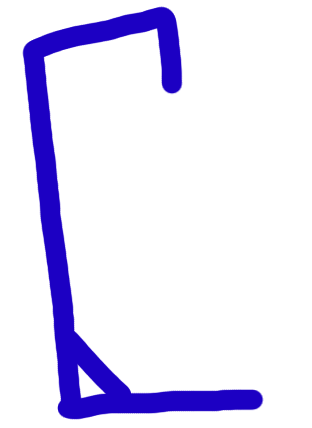
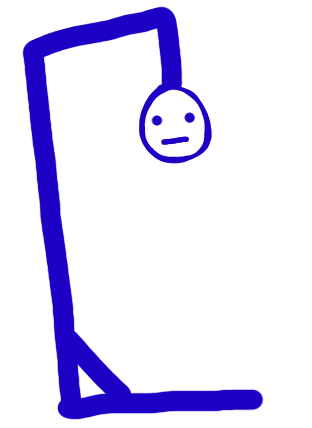
Add hangman images and make function to change through them with each mistake

Changed region(s): [[0.4327, 0.1822, 0.6923, 0.3949]]

diff --git a/assets/js/script.js b/assets/js/script.js
@@ -114,16 +114,19 @@ let musicList  = [
 /*--- functions to pick random words by category ---*/
 
 function randomActor(){
+    reset();
     answer = actorsList[Math.floor(Math.random() * 20)];
     convertWord();   
 }
 
 function randomMovie(){
+    reset();
     answer = moviesList[Math.floor(Math.random() * 20)];
     convertWord();   
 }
 
 function randomMusic(){
+    reset();
     answer = musicList[Math.floor(Math.random() * 20)];
     convertWord();   
 }
@@ -140,7 +143,7 @@ function convertWord(){
 
 function handleGuess(chosenLetter){
     if (answer === ''){
-        alert('You must pick a catergory before guessing')
+        alert('You must pick a category before guessing')
     } else{
         guessed.indexOf(chosenLetter) === -1 ? guessed.push(chosenLetter) : null;
         document.getElementById(chosenLetter).setAttribute('disabled', true);
@@ -154,26 +157,31 @@ function handleGuess(chosenLetter){
     }
 };
 
-
 function updateMistakes(){
     let oldScore = parseInt(document.getElementById("mistakes").innerText);
     document.getElementById("mistakes").innerText = ++oldScore;
     ++errors;
+    updateHangmanImage();
 }
 
 function checkIfGameWon(){
     let comparingWord = answer.split(' ').join('/');
     if (hiddenWord === comparingWord){
-        alert('You Won!');
+        alert(`You Won! The answer was ${answer}!`);
         reset();
     } 
 } 
 
 function checkIfGameLost(){
     if (errors == 6){
-        alert('You lost!')
+        alert(`You Lost! The answer was ${answer}!`);
         reset();
     }
+}
+
+function updateHangmanImage(){
+    alert(errors);
+    document.getElementById('hangmanImg').src= `assets/images/hangman-${errors}.png`;
 }
 
 function reset(){
@@ -181,7 +189,7 @@ function reset(){
     guessed = ['/'];
     answer = '';
     document.getElementById('right-guesses').innerHTML = '';
-    document.getElementById('hangman').src = 'assets/images/hangman-1.png';
+    document.getElementById('hangmanImg').src = 'assets/images/hangman.png';
     document.getElementById('mistakes').innerHTML= 0;
     generateButtons();
 }

diff --git a/index.html b/index.html
@@ -25,7 +25,7 @@
             
         </div>
         <div class="game-area">
-            <div id="hangman"><img id="hangmanImg" src="assets/images/hangman-1.png" alt="Hangman first image gallows"></div>
+            <div id="hangman"><img id="hangmanImg" src="assets/images/hangman.png" alt="Hangman first image gallows"></div>
             <div id="wrong-guesses">Wrong Guesses : <span id="mistakes"> </span> of <span id="max-wrong"> </span></div>
             <div id="guess-area"><p id="right-guesses"></p></div>
         </div>
